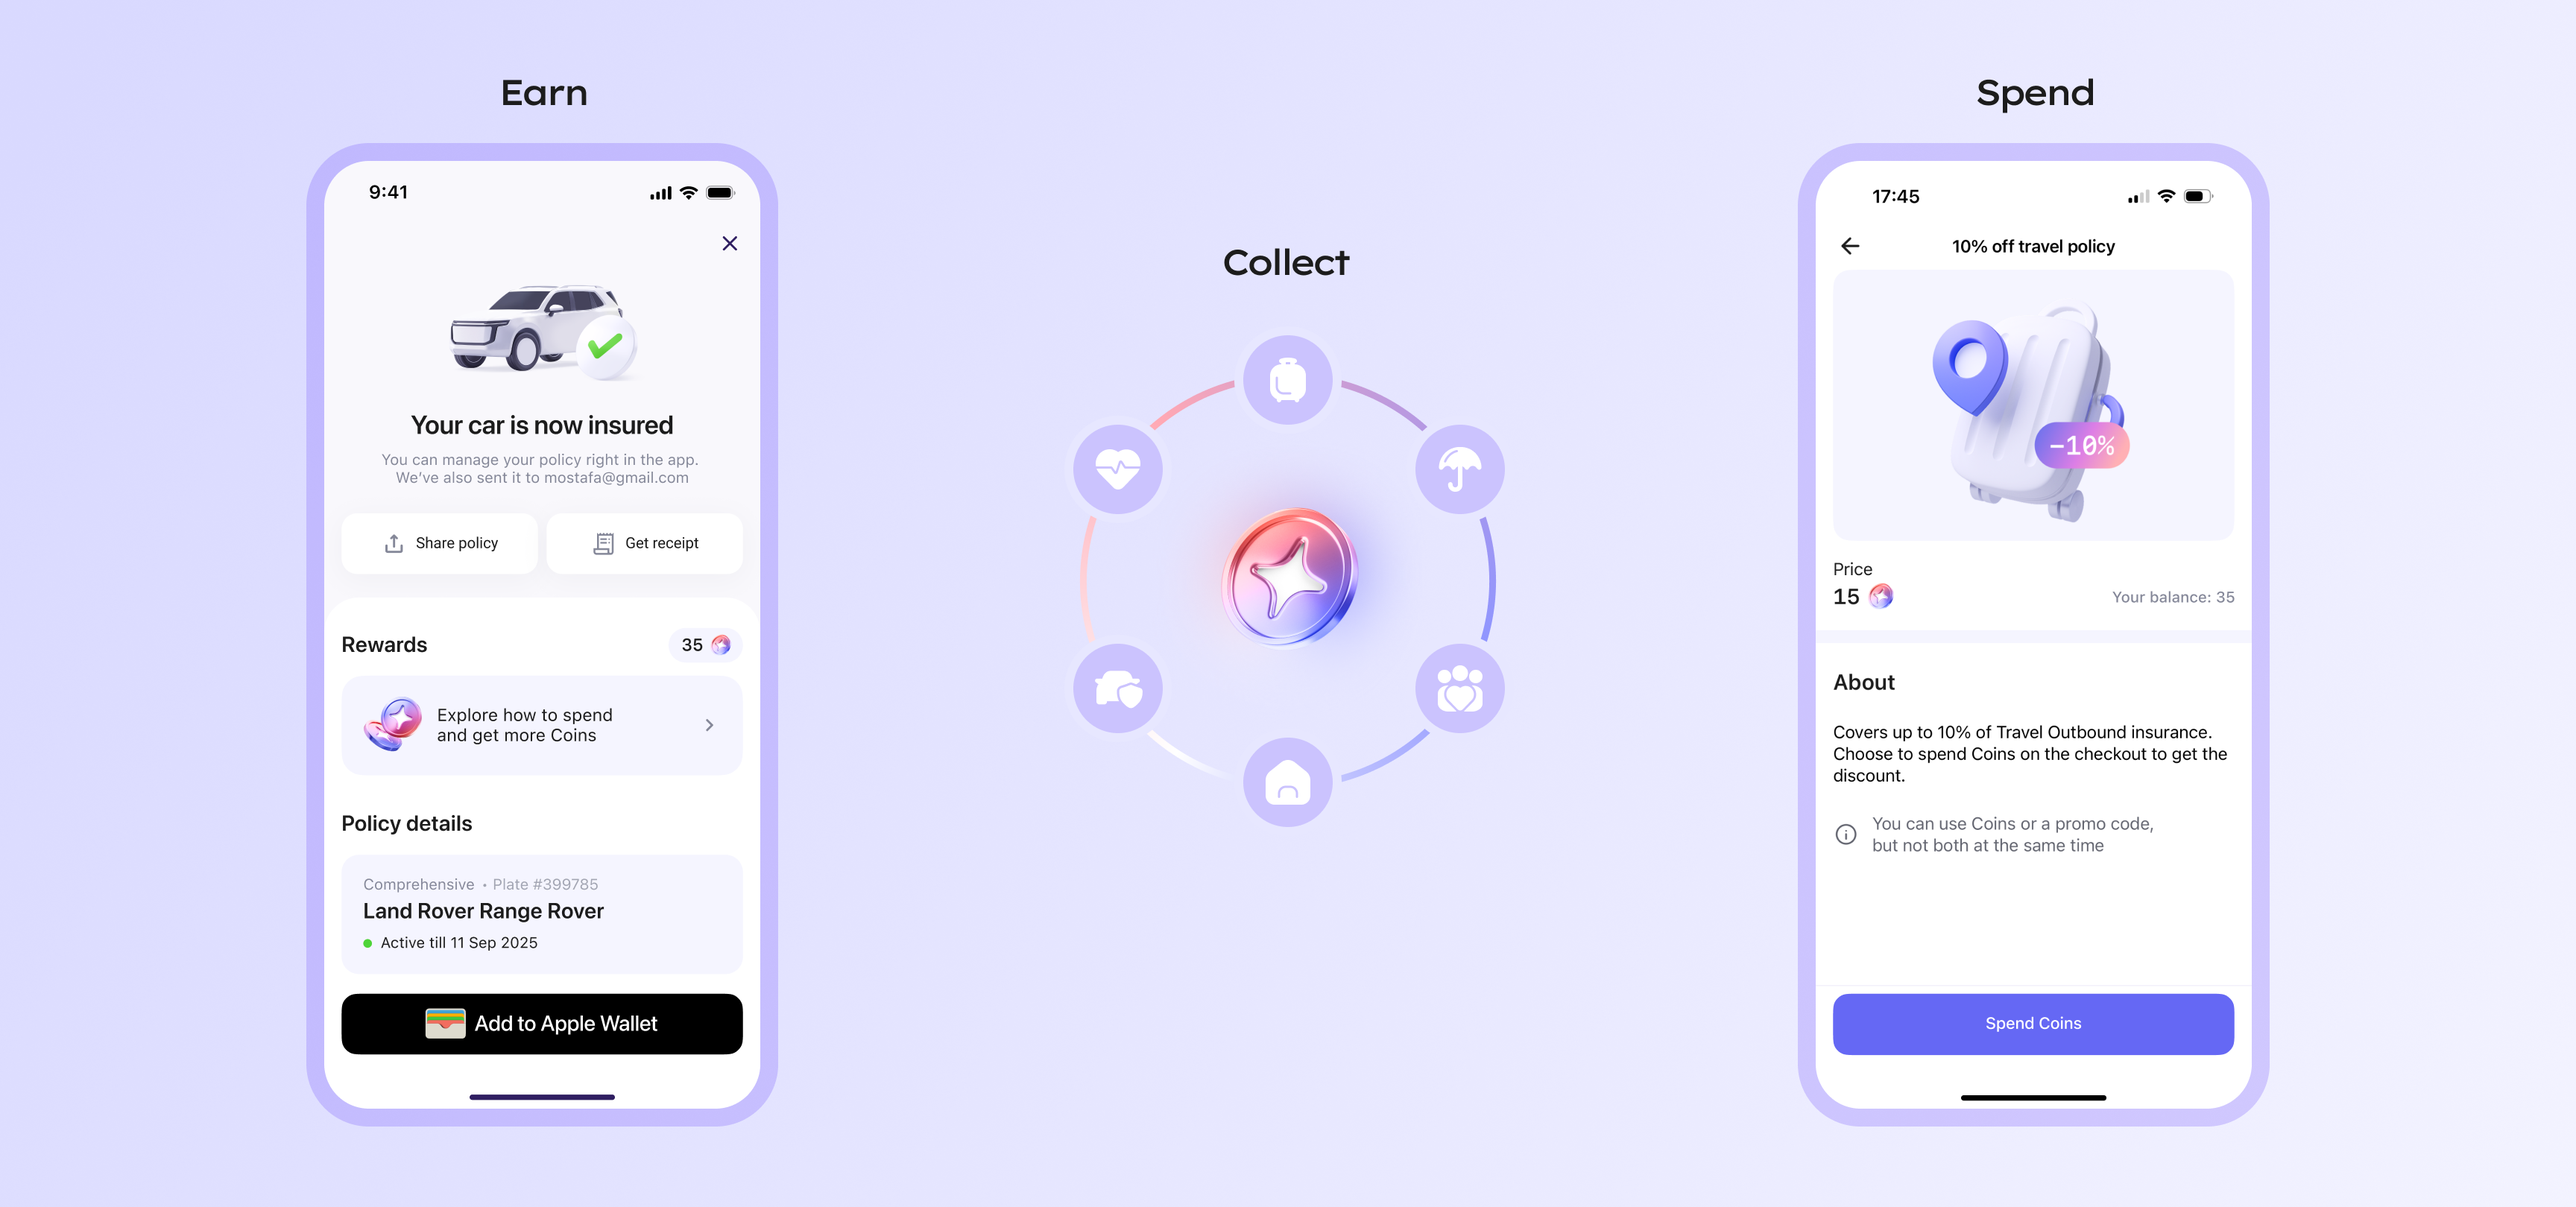
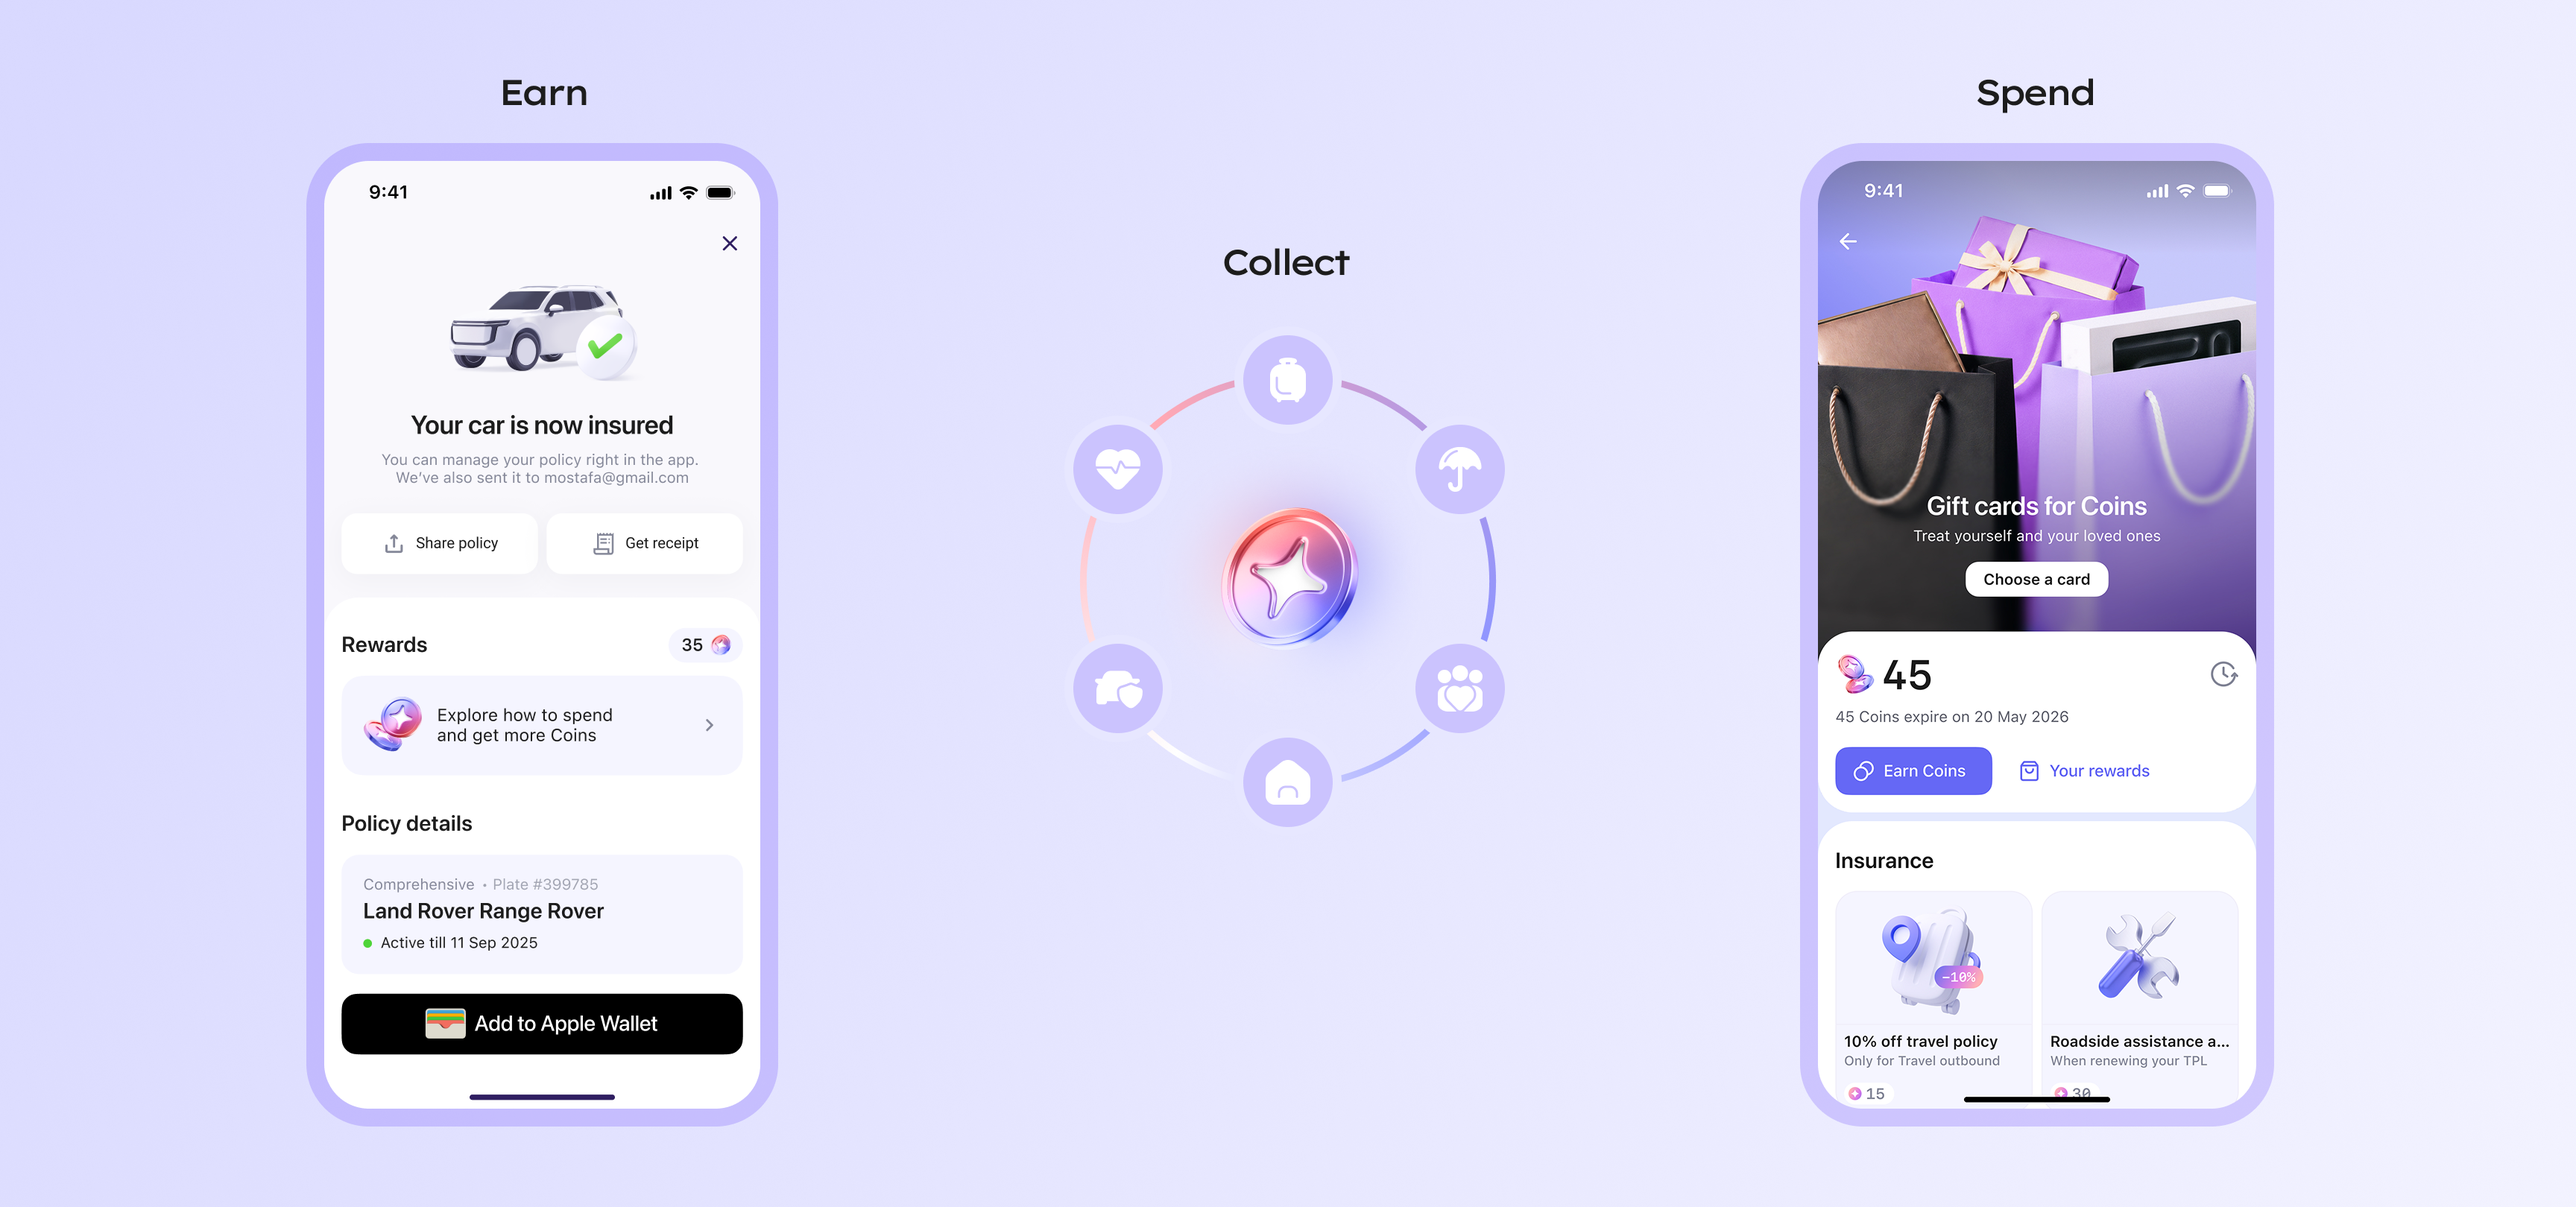
content: add Travel stream and update Cross-Product Experiences visuals

Changed region(s): [[0.6875, 0.1235, 0.875, 0.9259]]

diff --git a/app/works/cross-product-experiences/page.tsx b/app/works/cross-product-experiences/page.tsx
@@ -31,6 +31,12 @@ const stageSections: StageSection[] = [
       'As the ecosystem expanded, we designed a cross-product loyalty system built around a shared rewards currency.\n\nCustomers could earn and redeem rewards across multiple products, creating stronger connections between services and encouraging deeper ecosystem engagement.\n\nMy contribution was focused on creating reusable loyalty patterns that different product teams could adopt while maintaining a consistent customer experience.\n\nToday, the loyalty framework serves as a shared ecosystem layer used across multiple products and teams.',
     image: '/images/works/cross-product-experiences/loyalty-program.png',
   },
+  {
+    title: 'Travel',
+    content:
+      'When I took over the Travel stream, the team had just launched an MVP of hotel booking within QIC App.\n\nThe next challenge was to transform this mobile-first service into a cross-platform product while maintaining a fast delivery pace. My focus was on restructuring the design process for parallel mobile and web development, coaching the designer to work across platforms, and ensuring a consistent booking experience.\n\nThe first major milestone was launching a web hotel-booking platform from scratch in less than a month, from design kickoff to production. This established a new multi-platform design workflow and expanded the Travel experience beyond the mobile app.',
+    image: '/images/works/cross-product-experiences/hotels.png',
+  },
 ];
 
 export default function CrossProductExperiencesPage() {
@@ -293,6 +299,16 @@ export default function CrossProductExperiencesPage() {
                     {' '}was focused on creating reusable loyalty patterns that different product teams could adopt while maintaining a consistent customer experience.
                     {'\n\n'}
                     Today, the loyalty framework serves as a shared <span style={{ fontWeight: 500 }}>ecosystem layer</span> used across multiple products and teams.
+                  </>
+                ) : stage.title === 'Travel' ? (
+                  <>
+                    When I took over the Travel stream, the team had just launched an MVP of hotel booking within QIC App.
+                    {'\n\n'}
+                    <span style={{ fontWeight: 500 }}>The next challenge</span>
+                    {' '}was to transform this mobile-first service into a cross-platform product while maintaining a fast delivery pace. My focus was on restructuring the design process for parallel mobile and web development, coaching the designer to work across platforms, and ensuring a consistent booking experience.
+                    {'\n\n'}
+                    <span style={{ fontWeight: 500 }}>The first major milestone</span>
+                    {' '}was launching a web hotel-booking platform from scratch in less than a month, from design kickoff to production. This established a new multi-platform design workflow and expanded the Travel experience beyond the mobile app.
                   </>
                 ) : (
                   stage.content
